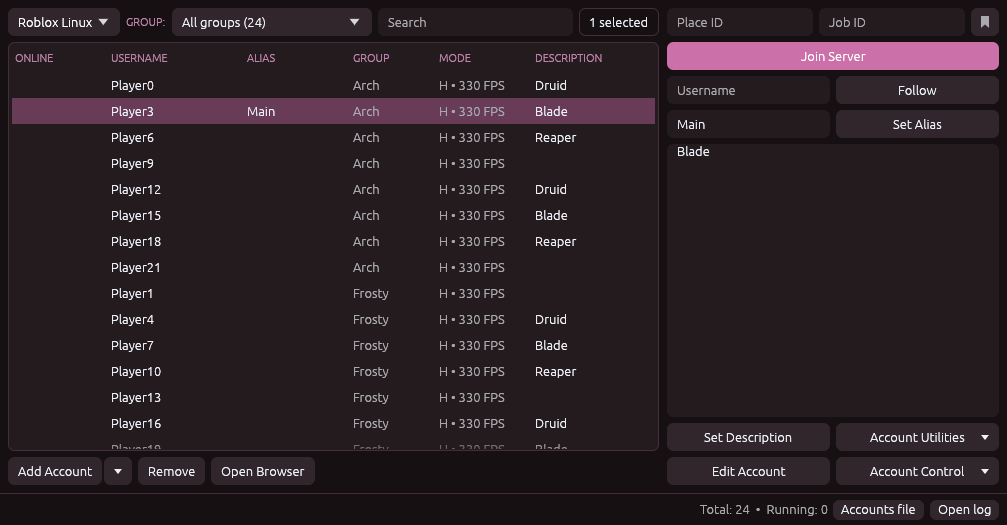
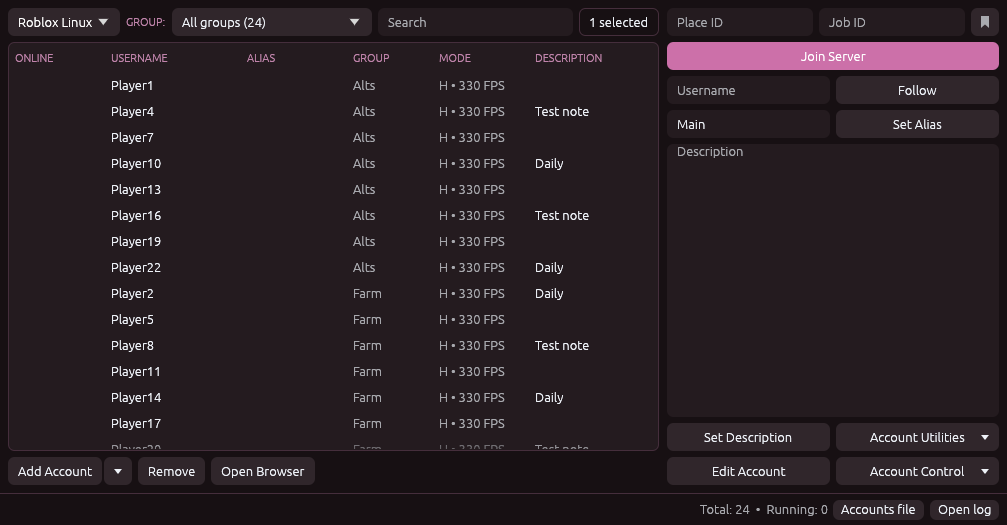
Neutral examples in place of real account details
The preview picture, two tests and a doc comment used real group names, descriptions and an
account name; the place ID examples now use Roblox's own Crossroads place.

diff --git a/crates/alyae/src/ram.rs b/crates/alyae/src/ram.rs
@@ -171,7 +171,7 @@ const LOCKED: &str = "this Roblox Account Manager file is locked to the Windows 
 mod tests {
     use super::*;
 
-    const JSON: &str = r#"[{"Valid":true,"SecurityToken":"_|WARNING:-DO-NOT-SHARE-THIS.--abc","Username":"Player1","LastUse":"2026-01-02T03:04:05","Alias":"Main","Description":"Druid","Password":"pw1","Group":"Arch","UserID":77,"Fields":{},"LastAttemptedRefresh":"2026-01-01T00:00:00","BrowserTrackerID":"123"},
+    const JSON: &str = r#"[{"Valid":true,"SecurityToken":"_|WARNING:-DO-NOT-SHARE-THIS.--abc","Username":"Player1","LastUse":"2026-01-02T03:04:05","Alias":"Main","Description":"Note","Password":"pw1","Group":"Alts","UserID":77,"Fields":{},"LastAttemptedRefresh":"2026-01-01T00:00:00","BrowserTrackerID":"123"},
         {"SecurityToken":"tok2","Username":"Player2","Group":"Default","UserID":78},
         {"SecurityToken":null,"Username":"NoCookie"}]"#;
 
@@ -189,7 +189,7 @@ mod tests {
                 a.group.as_str(),
                 a.notes.as_str()
             ),
-            ("roblox", "Main", "Arch", "Druid")
+            ("roblox", "Main", "Alts", "Note")
         );
         assert_eq!(a.value("username"), "Player1");
         assert_eq!(a.value("user_id"), "77");

diff --git a/crates/alyae-roblox/src/main.rs b/crates/alyae-roblox/src/main.rs
@@ -397,12 +397,12 @@ mod tests {
 
     #[test]
     fn places_and_codes() {
-        assert_eq!(place_id("3016661674"), Some(3016661674));
+        assert_eq!(place_id("1818"), Some(1818));
         assert_eq!(
-            place_id("https://www.roblox.com/games/3016661674/Rogue-Lineage"),
-            Some(3016661674)
+            place_id("https://www.roblox.com/games/1818/Classic-Crossroads"),
+            Some(1818)
         );
-        assert_eq!(place_id("rogue"), None);
+        assert_eq!(place_id("crossroads"), None);
         let link = "https://www.roblox.com/games/123/x?privateServerLinkCode=abcDEF123456789012";
         assert_eq!(
             query_value(link, "privateServerLinkCode"),

diff --git a/crates/alyae/src/module.rs b/crates/alyae/src/module.rs
@@ -686,7 +686,7 @@ label = "Place"
             "action = \"p\"\nevery = 15\ncolumn = \"Online\"\n[colors]\n\"In game\" = \"#00ff00\"\n\"In\" = \"#000000\"\n",
         )
         .unwrap();
-        assert_eq!(w.color_of("In game: Rogue Lineage"), Some("#00ff00"));
+        assert_eq!(w.color_of("In game: Crossroads"), Some("#00ff00"));
         assert_eq!(w.color_of("In Studio"), Some("#000000"));
         assert_eq!(w.color_of("Offline"), None);
     }

diff --git a/crates/alyae/src/ui.rs b/crates/alyae/src/ui.rs
@@ -2982,7 +2982,7 @@ mod tests {
         let file = dir.join("AccountData.json");
         std::fs::write(
             &file,
-            r#"[{"SecurityToken":"tok1","Username":"Player1","UserID":77,"Alias":"Main","Group":"Arch"}]"#,
+            r#"[{"SecurityToken":"tok1","Username":"Player1","UserID":77,"Alias":"Main","Group":"Alts"}]"#,
         )
         .unwrap();
         let r = bring_in(&s, &[], &file, "").unwrap();

diff --git a/crates/alyae/src/log.rs b/crates/alyae/src/log.rs
@@ -1,4 +1,4 @@
-//! Alyae's log: one line per event (`2026-11-15 20:51:03 xSEz1n: Join Server: running`) in
+//! Alyae's log: one line per event (`2026-11-15 20:51:03 Player1: Join Server: running`) in
 //! `<data>/alyae.log`, moved to `alyae.log.1` past 1 MB. Helpers' own error output goes to the same
 //! file. Secret values never reach it: changed fields are logged by name only.
 
